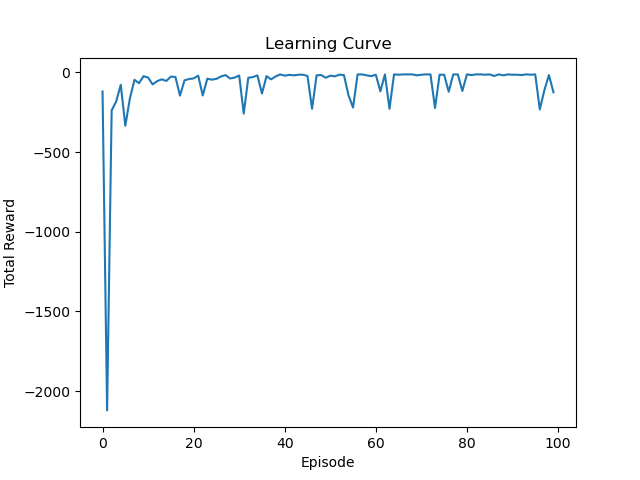
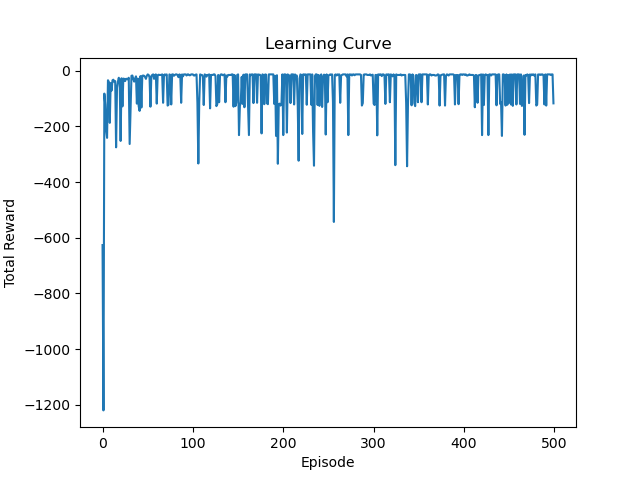
cliff-walking update

diff --git a/cliff-walking/cliff-walking.py b/cliff-walking/cliff-walking.py
@@ -1,10 +1,9 @@
 import gymnasium as gym
 import numpy as np
-from q_learning import q_learning
+from q_learning import q_learning, plot
 
 """
-Write a program to solve a cliff walking problem from a gymnasium environment.
-The program should use reinforcement learning.
+Program solving a cliff walking problem from a gymnasium environment using Q-learning.
 """
 
 env = gym.make('CliffWalking-v0')
@@ -15,24 +14,30 @@ N_ACTIONS = env.action_space.n  # number of actions in the environment (4)
 ALPHA = 0.5  # learning rate
 GAMMA = 0.9  # discount factor
 EPSILON = 0.1  # epsilon-greedy policy
-N_EPISODES = 100  # number of episodes
+N_EPISODES = 500  # number of episodes
 
 # perform Q-learning
-Q, total_reward = q_learning(env=env, n_states=N_STATES, n_actions=N_ACTIONS, epsilon=EPSILON, alpha=ALPHA, gamma=GAMMA,
-                             n_episodes=N_EPISODES)
+Q, learning_curve = q_learning(env=env, n_states=N_STATES, n_actions=N_ACTIONS, epsilon=EPSILON, alpha=ALPHA,
+                               gamma=GAMMA, n_episodes=N_EPISODES)
+
+# plot the learning curve
+plot(learning_curve)
 
 # evaluate the learned policy
-evaluate_episodes = 10
-
+evaluate_episodes = 50
+total_reward = 0
 for episode in range(evaluate_episodes):
-    state = env.reset()[0]
     terminated, truncated = False, False
-    total_rewards = 0
+    episode_reward = 0
+    state = env.reset()[0]
 
     while not terminated and not truncated:
         action = np.argmax(Q[state])
-        # Take the chosen action and observe the outcome
+        # Take the chosen action
         state, reward, terminated, truncated, info = env.step(action)
-        total_rewards += reward
+        episode_reward += reward
+        total_reward += reward
 
-    print(f'Episode {episode + 1}: total_rewards={total_rewards}')
+    print(f'Episode numer {episode + 1}: reward={episode_reward}')
+
+print(f'Average reward over {evaluate_episodes} episodes: {total_reward / evaluate_episodes}')

diff --git a/cliff-walking/q_learning.py b/cliff-walking/q_learning.py
@@ -7,7 +7,6 @@ def q_learning(env, n_states, n_actions, epsilon, alpha, gamma, n_episodes):
     Q = np.zeros((n_states, n_actions))
     learning_curve = np.zeros(n_episodes)
 
-    total_reward = 0
     for episode in range(n_episodes):
         state = env.reset()[0]
         terminated, truncated = False, False
@@ -24,17 +23,21 @@ def q_learning(env, n_states, n_actions, epsilon, alpha, gamma, n_episodes):
             observation, reward, terminated, truncated, info = env.step(action)
 
             # Print
-            print(f'Episode {episode}: observation={observation}, action={action}, state={state}, reward={reward};')
+            # print(f'Episode {episode}: observation={observation}, action={action}, state={state}, reward={reward};')
 
             # Update Q
             Q[state, action] = alpha * (reward + gamma * np.max(Q[observation])) + (1 - alpha) * Q[state, action]
             state = observation
 
             episode_reward += reward
-            total_reward += reward
 
         learning_curve[episode] = episode_reward
 
+    return Q, learning_curve
+
+
+# define the plot function
+def plot(learning_curve):
     np.save('learning_curve.npy', learning_curve)
 
     learning_curve = np.load('learning_curve.npy')
@@ -44,4 +47,4 @@ def q_learning(env, n_states, n_actions, epsilon, alpha, gamma, n_episodes):
     plt.title('Learning Curve')
     plt.savefig('learning_curve.png')
 
-    return Q, total_reward
+    plt.show()
